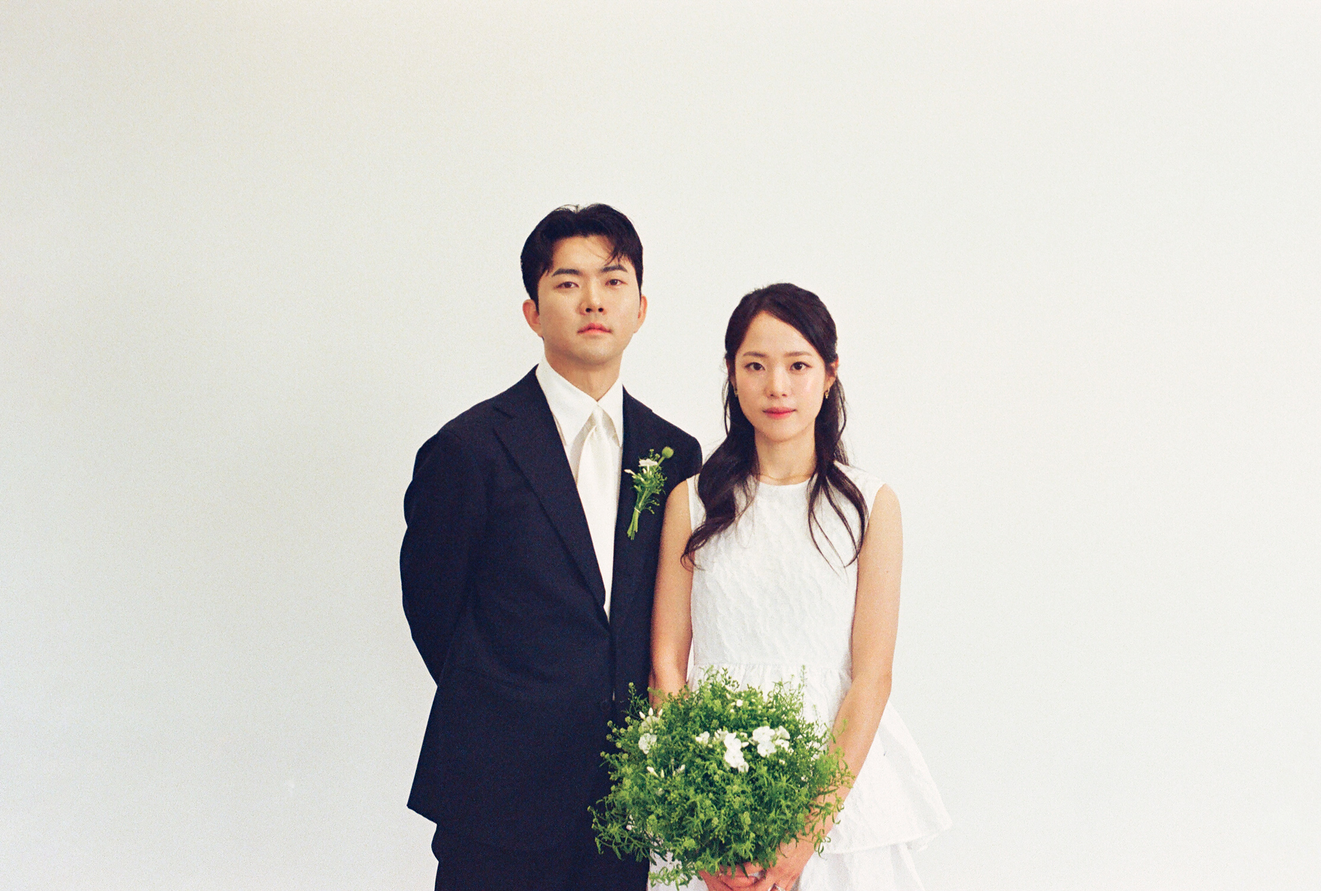
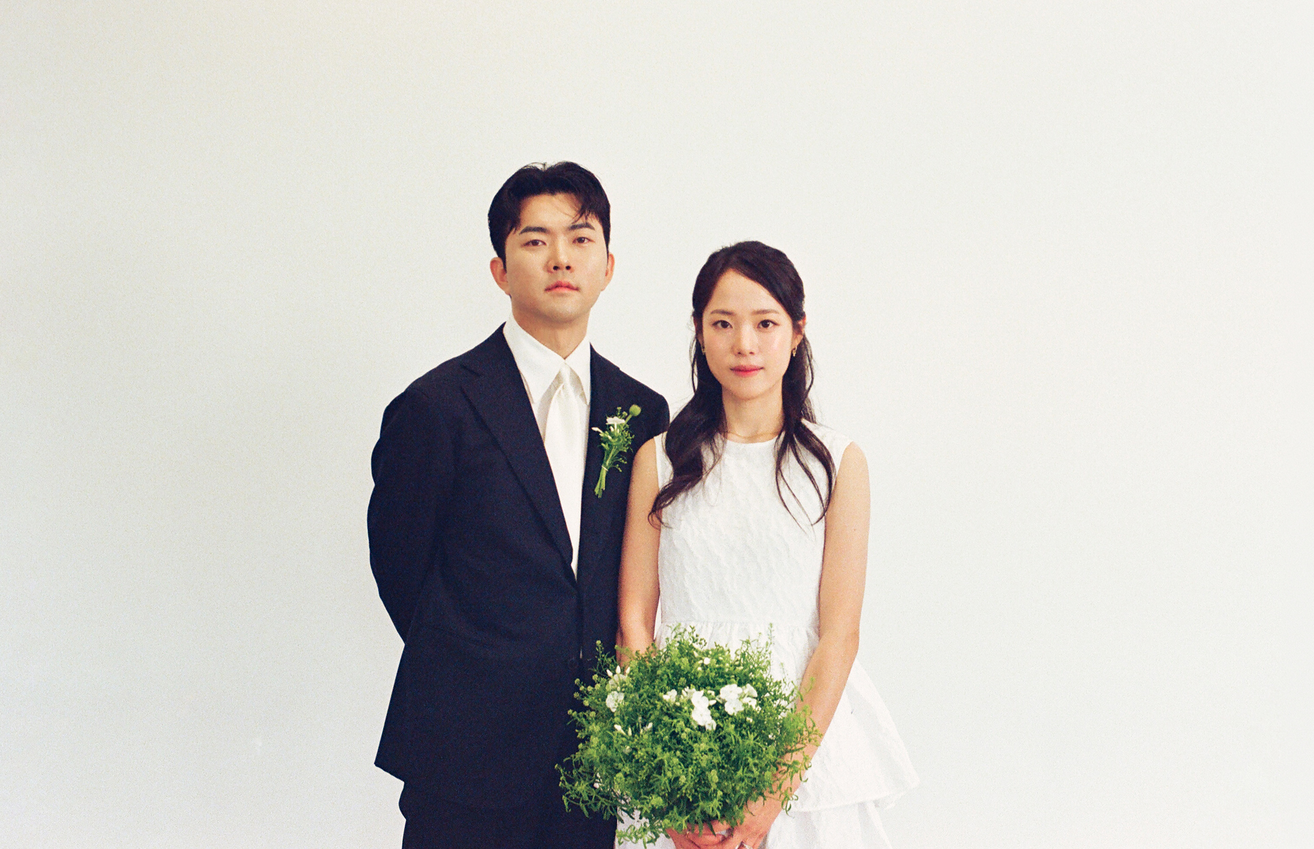
감사합니다..

Changed region(s): [[0.2807, 0.1847, 0.6863, 1.0]]

diff --git a/style.css b/style.css
@@ -132,7 +132,7 @@ body .div1 #glyph01 {
   z-index: 1000;
 }
 body .div2 {
-  height: 37em;
+  height: 38em;
   padding: 2.6em 0;
   background-image: url("./assets/2_13130012.jpg");
   background-size: cover;
@@ -143,7 +143,7 @@ body .div2 h2 {
 }
 body .div2 a {
   color: var(--olive);
-  line-height: 1.7;
+  line-height: 1.85;
   text-decoration: underline;
 }
 body .div2 #parking {

diff --git a/style.scss b/style.scss
@@ -177,7 +177,7 @@ body {
 	}
 
 	.div2 {
-		height: 37em;
+		height: 38em;
 		padding: 2.6em 0;
 
 		background-image: url("./assets/2_13130012.jpg");
@@ -190,7 +190,7 @@ body {
 
 		a {
 			color: var(--olive);
-			line-height: 1.7;
+			line-height: 1.85;
 			text-decoration: underline;
 		}
 
